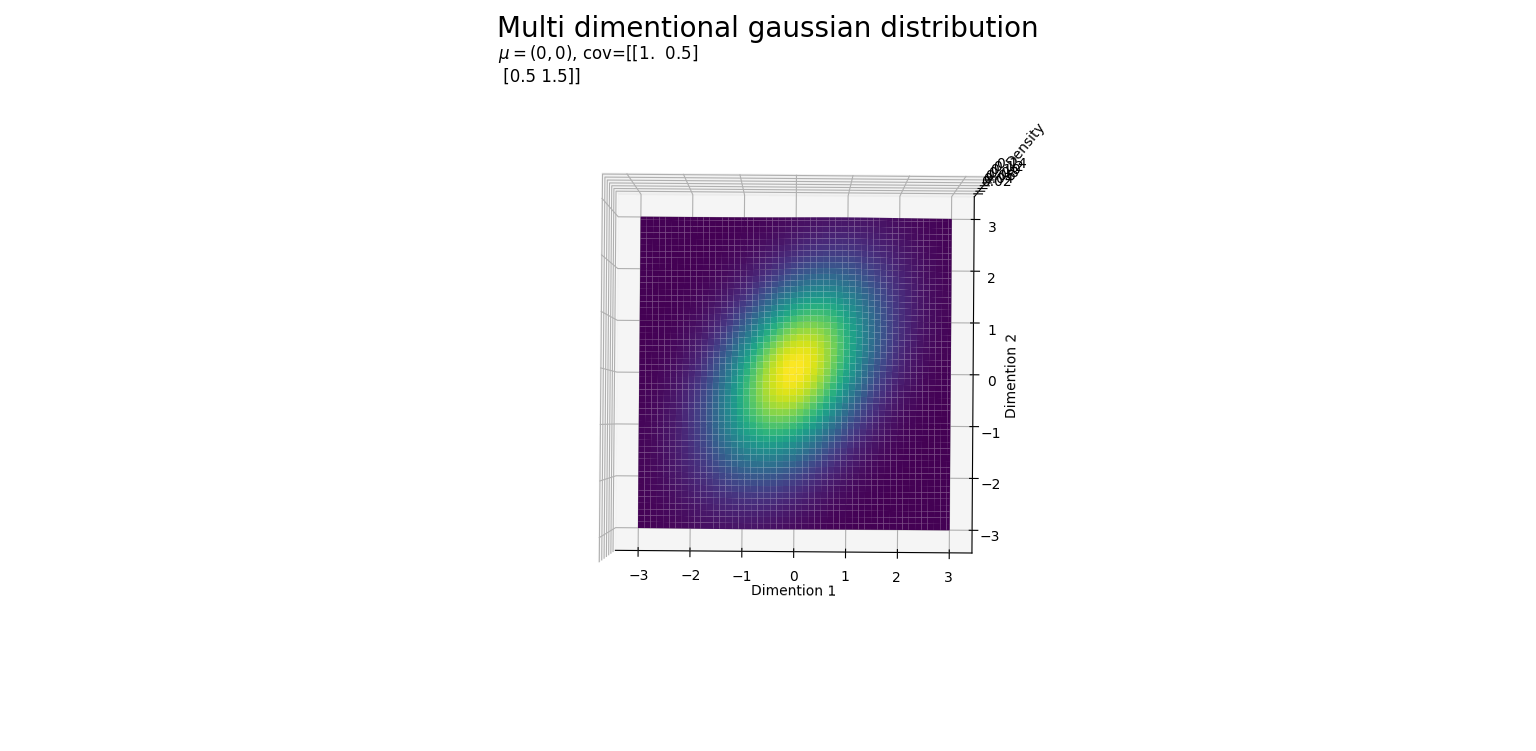
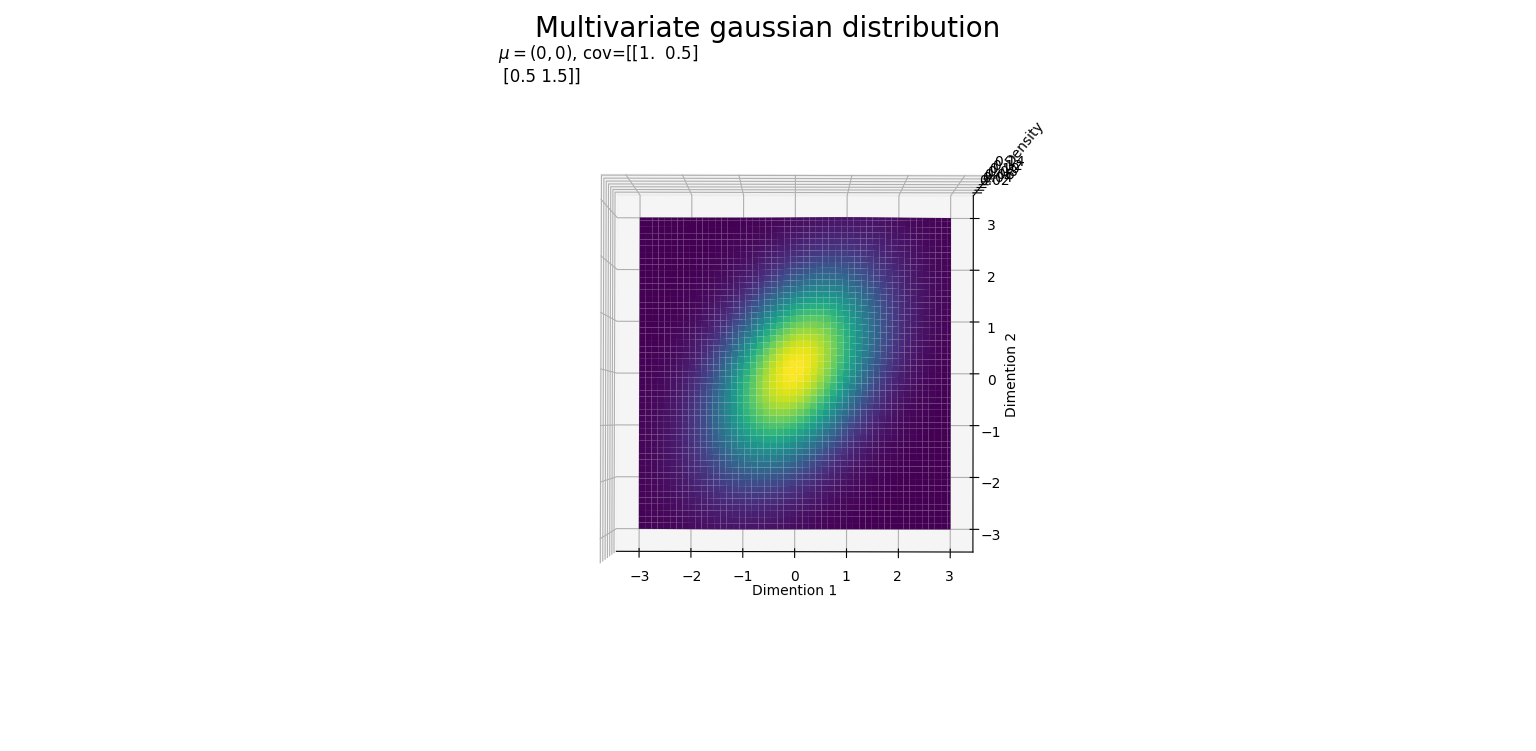
Update README about gaussian distribution

Changed region(s): [[0.375, 0.1531, 0.6875, 0.7656], [0.3125, 0.0, 0.6875, 0.0613], [0.4688, 0.7656, 0.5312, 0.7963]]

diff --git a/probability_distribution/draw_multivariate_gaussian_distribution.py b/probability_distribution/draw_multivariate_gaussian_distribution.py
@@ -4,7 +4,7 @@ import matplotlib.pyplot as plt
 import numpy as np
 
 
-def calculate_multi_dimentional_gaussian_distribution(mu, cov, vals):
+def calculate_multivariate_gaussian_distribution(mu, cov, vals):
     if mu.shape[0] != cov.shape[0] or mu.shape[0] != cov.shape[1]:
         raise ValueError("Shape of mu and cov are not same.")
 
@@ -40,10 +40,10 @@ def main():
     vals[:, :, 0] = X
     vals[:, :, 1] = Y
 
-    density = calculate_multi_dimentional_gaussian_distribution(mu, cov, vals)
+    density = calculate_multivariate_gaussian_distribution(mu, cov, vals)
 
     fig = plt.figure()
-    fig.suptitle(t="Multi dimentional gaussian distribution", fontsize=20)
+    fig.suptitle(t="Multivariate gaussian distribution", fontsize=20)
     ax = fig.add_subplot(projection="3d")
     ax.set_xlabel(xlabel="Dimention 1")
     ax.set_ylabel(ylabel="Dimention 2")

diff --git a/probability_distribution/README.md b/probability_distribution/README.md
@@ -142,8 +142,14 @@ The drawing shows what happens when the parameter $\alpha_1$ is varied.
 <br></br>
 
 ## Gaussian distribution
+The Gaussian distribution, also called the normal distribution, is widely used as a model for the distribution of continuous variables.
+If there is only one variable, it can be written as follows. $\mu$ is the averange and $\sigma^2$ is the variance.
 
-You can draw the Gaussian distribution by running follow command.
+$$
+\mathcal{N}(x|\mu,\sigma^2)=\frac{1}{(2\pi\sigma^2)^{1/2}}e^{-\frac{1}{2\sigma^2}(x-\mu)^2} \tag{15}
+$$
+
+You can draw the Gaussian distribution by running follow command. Under a Gaussian distribution, the probability density of the random numbers created gradually follows a Gaussian distribution.
 
 ```bash
 python3 draw_gaussian_distribution.py
@@ -151,8 +157,27 @@ python3 draw_gaussian_distribution.py
 
 <img src='images/gaussian_dist.gif' width='600'>
 
+The multivariate Gaussian distribution for a vector $x$ in dimension $D$ is as follows.
+
+$$
+\mathcal{N}(x|\mu,\sigma)=\frac{1}{(2\pi)^{D/2}} \frac{1}{|\sigma|^{1/2}} e^{-\frac{1}{2}(x-\mu)^\intercal\sigma^{-1}(x-\mu)} \tag{16}
+$$
+
+$\mu$ is the average in dimention $D$, $\sigma$ is the covariance matrix in dimention $D \times D$ and $|\sigma|$ is the determinant of $\sigma$
+
+The Gaussian distribution depends on $x$ through the following quadratic form, which appears in the exponential part.
+
+$$
+\triangle^2=(x-\mu)^\intercal\sigma^{-1}(x-\mu) \tag{17}
+$$
+
+This quantity $\triangle$ is called the **Mahalanobis distance** from $\mu$ to $x$. This would be the Euclidean distance if $\sigma$ were a unit matrix. The density of the Gaussian distribution is constant on the surface where the value of this quadratic form is constant in $x$-space.
+
+
+You can draw the multivariate Gaussian distribution by running follow command.
+
 ```bash
-python3 draw_multi_dimentional_gaussian_distribution.py
+python3 draw_multivariate_gaussian_distribution.py
 ```
 
 <img src='images/multi_gaussian.png' width='600'>
